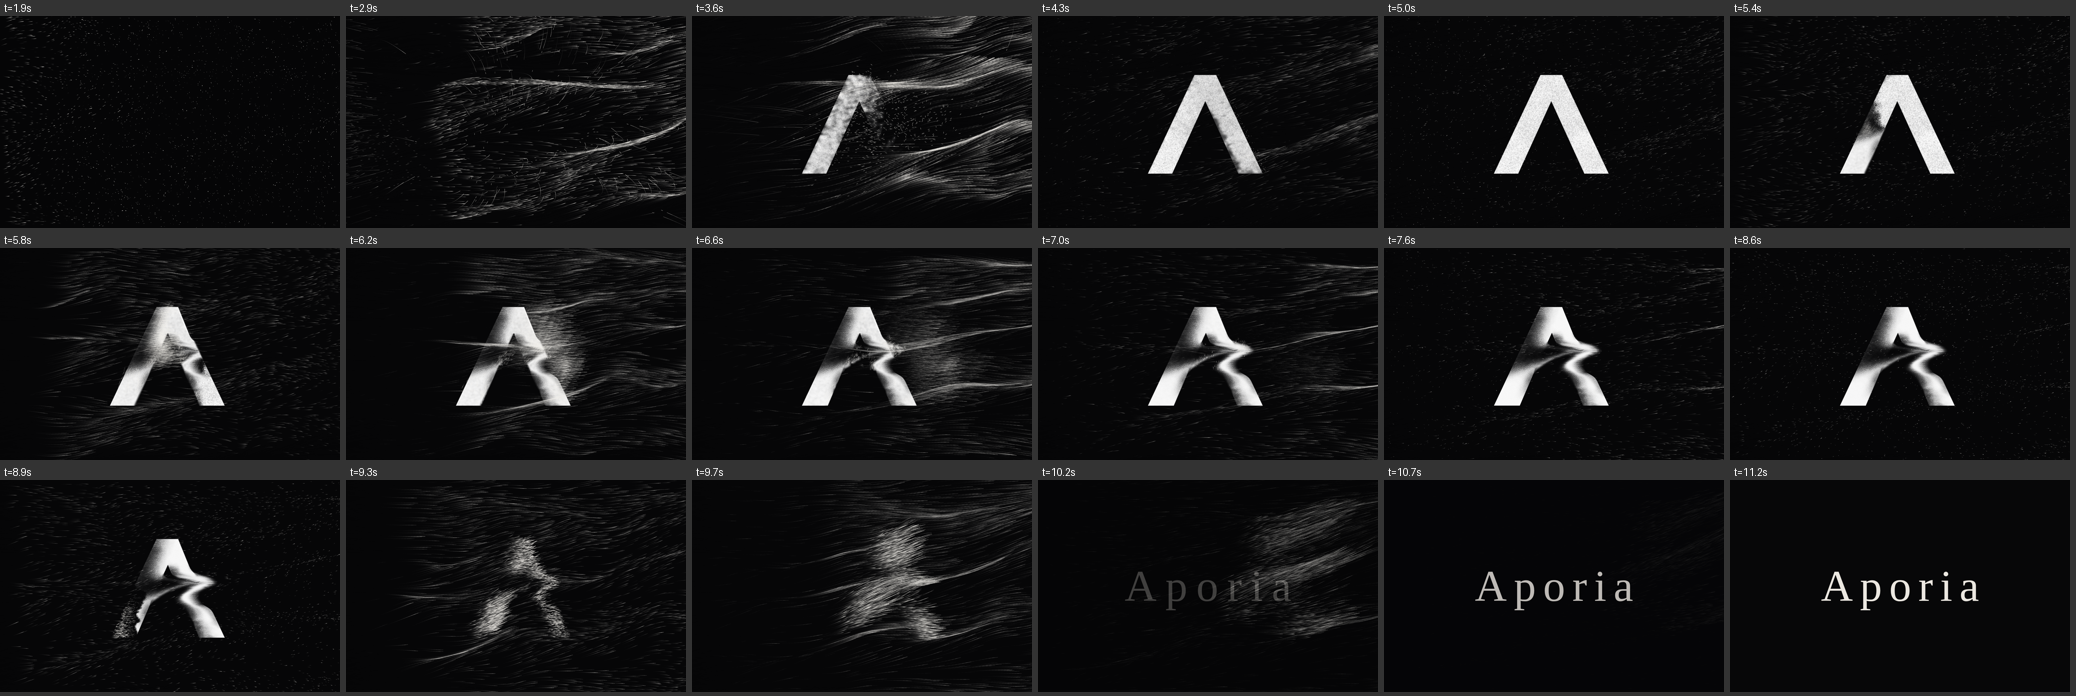
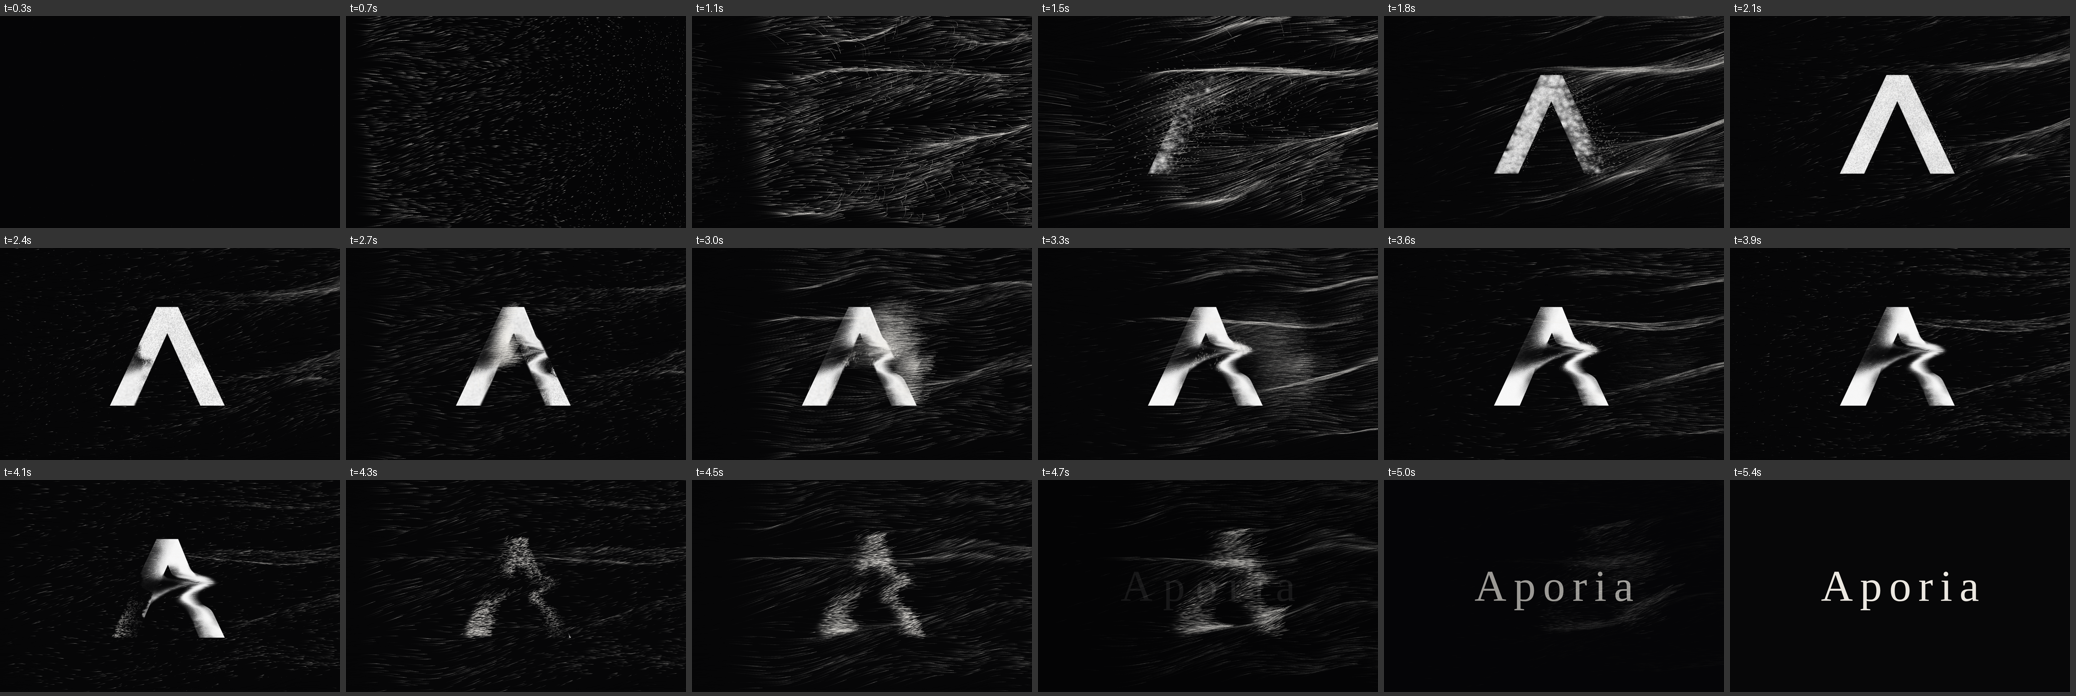
Aporia intro: accorciata a circa 5 secondi
- stessa storia (polvere → A pulita → il vento scava il fiume → logo →
  uscita → "Aporia") con fasi più rapide e ravvicinate: 5,3 s invece di 11
- qualità adattiva più reattiva (ogni 10 fotogrammi): fluida anche sui
  dispositivi lenti (circa 6 s con processore rallentato 6 volte)
- cronologia chat: messaggio 23

Claude-Session: https://claude.ai/code/session_012fWqezHyFdBUkYwQQa2JxT

diff --git a/index.html b/index.html
@@ -63,19 +63,19 @@
 
   // ---- tempi (secondi) --------------------------------------------------
   const T = {
-    dustIn: [0.7, 2.2],     // la polvere compare dal nero
-    form: [3.1, 4.5],       // la polvere costruisce la A pulita
-    carve: [5.0, 7.2],      // una folata scava il fiume e trascina la polvere nella bandiera
-    exit: [8.3, 9.8],       // il vento porta via il logo, da sinistra a destra
-    home: [9.6, 10.9],
-    end: 11.1,
+    dustIn: [0.15, 0.9],    // la polvere compare dal nero
+    form: [1.3, 2.0],       // la polvere costruisce la A pulita
+    carve: [2.2, 3.4],      // una folata scava il fiume e trascina la polvere nella bandiera
+    exit: [3.75, 4.6],      // il vento porta via il logo, da sinistra a destra
+    home: [4.45, 5.2],
+    end: 5.3,
   };
   // folate di vento: inizio, durata, forza, angolo (gradi), tempo per attraversare lo schermo
   const GUSTS = [
-    { t0: 1.5, dur: 1.2, str: 0.9, ang: -6, cross: 0.55 },
-    { t0: 2.5, dur: 1.5, str: 1.5, ang: -12, cross: 0.45 },
-    { t0: 4.75, dur: 2.3, str: 1.2, ang: -3, cross: 0.55 },
-    { t0: 8.1, dur: 2.6, str: 1.15, ang: -8, cross: 0.5 },
+    { t0: 0.2, dur: 0.9, str: 1.0, ang: -6, cross: 0.35 },
+    { t0: 0.75, dur: 1.2, str: 1.6, ang: -12, cross: 0.35 },
+    { t0: 2.05, dur: 1.5, str: 1.3, ang: -3, cross: 0.4 },
+    { t0: 3.6, dur: 1.6, str: 1.2, ang: -8, cross: 0.35 },
   ].map(g => ({ ...g, c: Math.cos(g.ang*Math.PI/180), s: Math.sin(g.ang*Math.PI/180) }));
 
   const clamp = (v, a, b) => Math.min(b, Math.max(a, v));
@@ -117,7 +117,7 @@
       const su = q[4*i]/2, sv = q[4*i + 1]/2, tu = q[4*i + 2]/2, tv = q[4*i + 3]/2;
       const away = tu < 0, r1 = hash(i, 11), r2 = hash(i, 23), r3 = hash(i, 37);
       out.push({ su, sv, away, keep: r3, tu: away ? su + 260 + r1*520 : tu, tv: away ? sv - 70 + r2*90 : tv,
-                 dur: (away ? 1.1 : 0.9) + r3*0.9, a: 0.3 + r1*0.55, ph: r2*50, t0: 0, x: 0, y: 0 });
+                 dur: (away ? 0.8 : 0.6) + r3*0.55, a: 0.3 + r1*0.55, ph: r2*50, t0: 0, x: 0, y: 0 });
     }
     return out;
   })();
@@ -207,7 +207,7 @@
     ambient = [];
     for (let i = 0; i < count; i++) ambient.push({
       x: Math.random()*W, y: Math.random()*H, vx: 0, vy: 0, born: 0,
-      big: Math.random() > 0.85, a: 0.18 + Math.random()*0.55, delay: Math.random()*1.2,
+      big: Math.random() > 0.85, a: 0.18 + Math.random()*0.55, delay: Math.random()*0.4,
     });
   }
 
@@ -283,14 +283,14 @@
         p.x = Math.random()*W; p.y = Math.random()*H; p.born = t;
         flow(p.x, p.y, t); p.vx = f[0]; p.vy = f[1];
       }
-      const a = p.a*dustA*smooth(T.dustIn[0] + p.delay, T.dustIn[0] + p.delay + 0.8, t)
+      const a = p.a*dustA*smooth(T.dustIn[0] + p.delay, T.dustIn[0] + p.delay + 0.4, t)
               * (p.born ? smooth(p.born, p.born + 0.6, t) : 1);
       const sp = Math.hypot(p.vx, p.vy) || 1, len = Math.min(4 + 22*VS, 0.4 + sp*0.028);
       queue(p.x - p.vx/sp*len, p.y - p.vy/sp*len, p.x, p.y, a, p.big);
     }
 
     // la seconda folata raccoglie la polvere che forma il logo
-    if (!formed && t >= GUSTS[1].t0 + 0.15 && solidTargets.length) {
+    if (!formed && t >= GUSTS[1].t0 + 0.1 && solidTargets.length) {
       formed = true;
       const n = Math.min(Math.round(1400*budget), solidTargets.length);
       // metà dei granelli viene dall'aria: si scelgono a caso e si tolgono in un solo passaggio
@@ -303,7 +303,7 @@
       for (let i = 0; i < n; i++) {
         const tg = solidTargets[(i*solidTargets.length/n)|0];
         const q = i % 2 === 0 ? picked[i >> 1] : null;
-        const jit = (Math.random() - 0.5)*0.22;
+        const jit = (Math.random() - 0.5)*0.15;
         formers.push(q ? { tg, jit, done: 0, x: q.x, y: q.y, vx: q.vx, vy: q.vy, a: 0.3 + tg.l*0.6, born: 0 }
                        : { tg, jit, done: 0, x: -20 - Math.random()*W*0.3, y: box.y + tg.v*box.s + (Math.random() - 0.5)*H*0.6, vx: 300*VS, vy: 0,
                            a: 0.3 + tg.l*0.6, born: t });
@@ -313,9 +313,9 @@
     const rad = 26/Math.sqrt(Math.max(0.3, formers.length/1400));   // meno granelli → sbuffi più larghi
     for (let i = 0; i < formers.length; i++) {
       const p = formers[i];
-      if (p.done && t - p.done > 0.5) continue;
-      const s0 = T.form[0] - 0.75 + ((p.tg.u - U0)/UW)*0.95 + p.jit;
-      const pull = smooth(s0, s0 + 0.75, t);
+      if (p.done && t - p.done > 0.3) continue;
+      const s0 = T.form[0] - 0.55 + ((p.tg.u - U0)/UW)*0.6 + p.jit;
+      const pull = smooth(s0, s0 + 0.5, t);
       const tx = box.x + p.tg.u*box.s, ty = box.y + p.tg.v*box.s;
       flow(p.x, p.y, t);
       const k = 1 - Math.exp(-dt*3);
@@ -326,7 +326,7 @@
       // arrivando lascia polvere: prima una traccia leggera lungo il percorso, poi lo sbuffo pieno
       if (!p.done && pull > 0.2 && d < 90) deposit((p.x - box.x)/box.s, (p.y - box.y)/box.s, 0.05*pull, rad*0.7);
       if (!p.done && pull > 0.55 && d < 4) { p.done = t; deposit(p.tg.u, p.tg.v, 0.85, rad); }
-      const fade = p.done ? 1 - (t - p.done)/0.5 : 1;
+      const fade = p.done ? 1 - (t - p.done)/0.3 : 1;
       const af = p.a*fade*(p.born ? smooth(p.born, p.born + 0.6, t) : 1);
       if (pull < 0.35) queue(ox, oy, p.x, p.y, af, false);    // portato dal vento: scia nell'aria
       else {                                                 // in arrivo: granello luminoso che scivola al suo posto
@@ -340,7 +340,7 @@
     lctx.clearRect(0, 0, W, H);
     const fp = clamp((t - T.form[0])/(T.form[1] - T.form[0]), 0, 1);
     const xp = clamp((t - T.exit[0])/(T.exit[1] - T.exit[0]), 0, 1);
-    const fill = smooth(T.form[1] - 0.35, T.form[1] + 0.25, t);
+    const fill = smooth(T.form[1] - 0.25, T.form[1] + 0.2, t);
     const mkAt = (c, cv, F) => c.drawImage(mk2, (F - U0)*cv.width/UW - cv.width, 0, 2*cv.width, cv.height);
     if (t < T.carve[0]) {
       // 1) la A pulita si vede solo dove la polvere si è posata; alla fine la maschera si chiude
@@ -358,9 +358,9 @@
     } else if (xp <= 0 && t < T.carve[1]) {
       // 2) la folata attraversa la lettera: dove passa, la polvere del fiume si solleva (S → Bstay)
       //    e quella trascinata compare dove si deposita (Bmove attraverso la maschera degli arrivi)
-      const cf = clamp((t - T.carve[0])/1.15, 0, 1), F = U0 - 60 + (UW + 120)*cf;
+      const cf = clamp((t - T.carve[0])/0.7, 0, 1), F = U0 - 60 + (UW + 120)*cf;
       carveFront = F;
-      const endFill = smooth(T.carve[1] - 0.45, T.carve[1], t);
+      const endFill = smooth(T.carve[1] - 0.3, T.carve[1], t);
       if (endFill > 0) { acc2.globalAlpha = endFill*0.3; acc2.fillStyle = '#fff'; acc2.fillRect(0, 0, ac2.width, ac2.height); acc2.globalAlpha = 1; }
       lcc.setTransform(1, 0, 0, 1, 0, 0); lcc.clearRect(0, 0, lc.width, lc.height);
       lcc.drawImage(IMG.S, 0, 0, lc.width, lc.height);
@@ -399,13 +399,13 @@
         blown.push({ x: box.x + tg.u*box.s, y: box.y + tg.v*box.s,
                      vx: (30 + Math.random()*140)*VS, vy: (-70 + Math.random()*110)*VS,
                      w: 0.35 + Math.random()*Math.random()*2.6,     // peso: i granelli leggeri volano via prima
-                     life: 1.4 + Math.random()*1.6, age: 0, a: 0.18 + tg.l*0.5, big: tg.l > 0.85 && Math.random() < 0.25 });
+                     life: 0.8 + Math.random()*0.9, age: 0, a: 0.18 + tg.l*0.5, big: tg.l > 0.85 && Math.random() < 0.25 });
       }
     }
 
     // granelli sollevati dalla folata: partono quando il fronte li raggiunge, volano col vento,
     // una parte si deposita nella bandiera e sui bordi del fiume, il resto viene portato via
-    if (t >= T.carve[0] && t < T.carve[1] + 1.6) {
+    if (t >= T.carve[0] && t < T.carve[1] + 1.0) {
       const subs = budget > 0.7 ? 3 : budget > 0.45 ? 2 : 1;
       const keepAway = 0.75*budget;                     // su dispositivi lenti meno polvere portata via
       for (let i = 0; i < MV.length; i++) {
@@ -475,14 +475,14 @@
     // qualità adattiva: si misura il tempo reale dei fotogrammi; se il dispositivo fatica si usa
     // meno polvere (e, all'inizio, una risoluzione più bassa) invece di andare a scatti
     slow.push(real);
-    if (slow.length >= 24) {
-      const med = slow.slice().sort((a, b) => a - b)[12];
-      if (med > 0.022 && budget > 0.25) {
-        const k = med > 0.04 ? 0.6 : 0.8;
+    if (slow.length >= 10) {                          // l'intro è breve: si reagisce in fretta
+      const med = slow.slice().sort((a, b) => a - b)[5];
+      if (med > 0.022 && budget > 0.2) {
+        const k = med > 0.07 ? 0.45 : med > 0.04 ? 0.6 : 0.8;
         budget *= k;
         ambient.length = Math.round(ambient.length*k);
         if (blown.length > 400) blown.length = Math.round(blown.length*k);
-        if (t < T.dustIn[1] && DPR > 1) { DPR_MAX = med > 0.04 ? 1 : 1.5; resize(); }
+        if (t < T.form[0] && DPR > 1) { DPR_MAX = med > 0.04 ? 1 : 1.5; resize(); }
       }
       slow.length = 0;
     }
@@ -517,8 +517,8 @@
       drawLogo(lctx, 1, 0, x, y, UW*box.s, VH*box.s);
       requestAnimationFrame(() => { lv.style.opacity = '1'; });
       intro.style.transition = 'opacity .7s ease'; title.style.transition = 'opacity .7s ease';
-      setTimeout(() => { intro.style.opacity = '0'; setTitle(1); }, 1900);
-      setTimeout(() => { intro.classList.add('gone'); running = false; lv.style.opacity = ''; }, 2700);
+      setTimeout(() => { intro.style.opacity = '0'; setTitle(1); }, 1200);
+      setTimeout(() => { intro.classList.add('gone'); running = false; lv.style.opacity = ''; }, 1800);
       return;
     }
     raf = requestAnimationFrame(frame);

diff --git a/src/template.html b/src/template.html
@@ -56,19 +56,19 @@
 
   // ---- tempi (secondi) --------------------------------------------------
   const T = {
-    dustIn: [0.7, 2.2],     // la polvere compare dal nero
-    form: [3.1, 4.5],       // la polvere costruisce la A pulita
-    carve: [5.0, 7.2],      // una folata scava il fiume e trascina la polvere nella bandiera
-    exit: [8.3, 9.8],       // il vento porta via il logo, da sinistra a destra
-    home: [9.6, 10.9],
-    end: 11.1,
+    dustIn: [0.15, 0.9],    // la polvere compare dal nero
+    form: [1.3, 2.0],       // la polvere costruisce la A pulita
+    carve: [2.2, 3.4],      // una folata scava il fiume e trascina la polvere nella bandiera
+    exit: [3.75, 4.6],      // il vento porta via il logo, da sinistra a destra
+    home: [4.45, 5.2],
+    end: 5.3,
   };
   // folate di vento: inizio, durata, forza, angolo (gradi), tempo per attraversare lo schermo
   const GUSTS = [
-    { t0: 1.5, dur: 1.2, str: 0.9, ang: -6, cross: 0.55 },
-    { t0: 2.5, dur: 1.5, str: 1.5, ang: -12, cross: 0.45 },
-    { t0: 4.75, dur: 2.3, str: 1.2, ang: -3, cross: 0.55 },
-    { t0: 8.1, dur: 2.6, str: 1.15, ang: -8, cross: 0.5 },
+    { t0: 0.2, dur: 0.9, str: 1.0, ang: -6, cross: 0.35 },
+    { t0: 0.75, dur: 1.2, str: 1.6, ang: -12, cross: 0.35 },
+    { t0: 2.05, dur: 1.5, str: 1.3, ang: -3, cross: 0.4 },
+    { t0: 3.6, dur: 1.6, str: 1.2, ang: -8, cross: 0.35 },
   ].map(g => ({ ...g, c: Math.cos(g.ang*Math.PI/180), s: Math.sin(g.ang*Math.PI/180) }));
 
   const clamp = (v, a, b) => Math.min(b, Math.max(a, v));
@@ -110,7 +110,7 @@
       const su = q[4*i]/2, sv = q[4*i + 1]/2, tu = q[4*i + 2]/2, tv = q[4*i + 3]/2;
       const away = tu < 0, r1 = hash(i, 11), r2 = hash(i, 23), r3 = hash(i, 37);
       out.push({ su, sv, away, keep: r3, tu: away ? su + 260 + r1*520 : tu, tv: away ? sv - 70 + r2*90 : tv,
-                 dur: (away ? 1.1 : 0.9) + r3*0.9, a: 0.3 + r1*0.55, ph: r2*50, t0: 0, x: 0, y: 0 });
+                 dur: (away ? 0.8 : 0.6) + r3*0.55, a: 0.3 + r1*0.55, ph: r2*50, t0: 0, x: 0, y: 0 });
     }
     return out;
   })();
@@ -200,7 +200,7 @@
     ambient = [];
     for (let i = 0; i < count; i++) ambient.push({
       x: Math.random()*W, y: Math.random()*H, vx: 0, vy: 0, born: 0,
-      big: Math.random() > 0.85, a: 0.18 + Math.random()*0.55, delay: Math.random()*1.2,
+      big: Math.random() > 0.85, a: 0.18 + Math.random()*0.55, delay: Math.random()*0.4,
     });
   }
 
@@ -276,14 +276,14 @@
         p.x = Math.random()*W; p.y = Math.random()*H; p.born = t;
         flow(p.x, p.y, t); p.vx = f[0]; p.vy = f[1];
       }
-      const a = p.a*dustA*smooth(T.dustIn[0] + p.delay, T.dustIn[0] + p.delay + 0.8, t)
+      const a = p.a*dustA*smooth(T.dustIn[0] + p.delay, T.dustIn[0] + p.delay + 0.4, t)
               * (p.born ? smooth(p.born, p.born + 0.6, t) : 1);
       const sp = Math.hypot(p.vx, p.vy) || 1, len = Math.min(4 + 22*VS, 0.4 + sp*0.028);
       queue(p.x - p.vx/sp*len, p.y - p.vy/sp*len, p.x, p.y, a, p.big);
     }
 
     // la seconda folata raccoglie la polvere che forma il logo
-    if (!formed && t >= GUSTS[1].t0 + 0.15 && solidTargets.length) {
+    if (!formed && t >= GUSTS[1].t0 + 0.1 && solidTargets.length) {
       formed = true;
       const n = Math.min(Math.round(1400*budget), solidTargets.length);
       // metà dei granelli viene dall'aria: si scelgono a caso e si tolgono in un solo passaggio
@@ -296,7 +296,7 @@
       for (let i = 0; i < n; i++) {
         const tg = solidTargets[(i*solidTargets.length/n)|0];
         const q = i % 2 === 0 ? picked[i >> 1] : null;
-        const jit = (Math.random() - 0.5)*0.22;
+        const jit = (Math.random() - 0.5)*0.15;
         formers.push(q ? { tg, jit, done: 0, x: q.x, y: q.y, vx: q.vx, vy: q.vy, a: 0.3 + tg.l*0.6, born: 0 }
                        : { tg, jit, done: 0, x: -20 - Math.random()*W*0.3, y: box.y + tg.v*box.s + (Math.random() - 0.5)*H*0.6, vx: 300*VS, vy: 0,
                            a: 0.3 + tg.l*0.6, born: t });
@@ -306,9 +306,9 @@
     const rad = 26/Math.sqrt(Math.max(0.3, formers.length/1400));   // meno granelli → sbuffi più larghi
     for (let i = 0; i < formers.length; i++) {
       const p = formers[i];
-      if (p.done && t - p.done > 0.5) continue;
-      const s0 = T.form[0] - 0.75 + ((p.tg.u - U0)/UW)*0.95 + p.jit;
-      const pull = smooth(s0, s0 + 0.75, t);
+      if (p.done && t - p.done > 0.3) continue;
+      const s0 = T.form[0] - 0.55 + ((p.tg.u - U0)/UW)*0.6 + p.jit;
+      const pull = smooth(s0, s0 + 0.5, t);
       const tx = box.x + p.tg.u*box.s, ty = box.y + p.tg.v*box.s;
       flow(p.x, p.y, t);
       const k = 1 - Math.exp(-dt*3);
@@ -319,7 +319,7 @@
       // arrivando lascia polvere: prima una traccia leggera lungo il percorso, poi lo sbuffo pieno
       if (!p.done && pull > 0.2 && d < 90) deposit((p.x - box.x)/box.s, (p.y - box.y)/box.s, 0.05*pull, rad*0.7);
       if (!p.done && pull > 0.55 && d < 4) { p.done = t; deposit(p.tg.u, p.tg.v, 0.85, rad); }
-      const fade = p.done ? 1 - (t - p.done)/0.5 : 1;
+      const fade = p.done ? 1 - (t - p.done)/0.3 : 1;
       const af = p.a*fade*(p.born ? smooth(p.born, p.born + 0.6, t) : 1);
       if (pull < 0.35) queue(ox, oy, p.x, p.y, af, false);    // portato dal vento: scia nell'aria
       else {                                                 // in arrivo: granello luminoso che scivola al suo posto
@@ -333,7 +333,7 @@
     lctx.clearRect(0, 0, W, H);
     const fp = clamp((t - T.form[0])/(T.form[1] - T.form[0]), 0, 1);
     const xp = clamp((t - T.exit[0])/(T.exit[1] - T.exit[0]), 0, 1);
-    const fill = smooth(T.form[1] - 0.35, T.form[1] + 0.25, t);
+    const fill = smooth(T.form[1] - 0.25, T.form[1] + 0.2, t);
     const mkAt = (c, cv, F) => c.drawImage(mk2, (F - U0)*cv.width/UW - cv.width, 0, 2*cv.width, cv.height);
     if (t < T.carve[0]) {
       // 1) la A pulita si vede solo dove la polvere si è posata; alla fine la maschera si chiude
@@ -351,9 +351,9 @@
     } else if (xp <= 0 && t < T.carve[1]) {
       // 2) la folata attraversa la lettera: dove passa, la polvere del fiume si solleva (S → Bstay)
       //    e quella trascinata compare dove si deposita (Bmove attraverso la maschera degli arrivi)
-      const cf = clamp((t - T.carve[0])/1.15, 0, 1), F = U0 - 60 + (UW + 120)*cf;
+      const cf = clamp((t - T.carve[0])/0.7, 0, 1), F = U0 - 60 + (UW + 120)*cf;
       carveFront = F;
-      const endFill = smooth(T.carve[1] - 0.45, T.carve[1], t);
+      const endFill = smooth(T.carve[1] - 0.3, T.carve[1], t);
       if (endFill > 0) { acc2.globalAlpha = endFill*0.3; acc2.fillStyle = '#fff'; acc2.fillRect(0, 0, ac2.width, ac2.height); acc2.globalAlpha = 1; }
       lcc.setTransform(1, 0, 0, 1, 0, 0); lcc.clearRect(0, 0, lc.width, lc.height);
       lcc.drawImage(IMG.S, 0, 0, lc.width, lc.height);
@@ -392,13 +392,13 @@
         blown.push({ x: box.x + tg.u*box.s, y: box.y + tg.v*box.s,
                      vx: (30 + Math.random()*140)*VS, vy: (-70 + Math.random()*110)*VS,
                      w: 0.35 + Math.random()*Math.random()*2.6,     // peso: i granelli leggeri volano via prima
-                     life: 1.4 + Math.random()*1.6, age: 0, a: 0.18 + tg.l*0.5, big: tg.l > 0.85 && Math.random() < 0.25 });
+                     life: 0.8 + Math.random()*0.9, age: 0, a: 0.18 + tg.l*0.5, big: tg.l > 0.85 && Math.random() < 0.25 });
       }
     }
 
     // granelli sollevati dalla folata: partono quando il fronte li raggiunge, volano col vento,
     // una parte si deposita nella bandiera e sui bordi del fiume, il resto viene portato via
-    if (t >= T.carve[0] && t < T.carve[1] + 1.6) {
+    if (t >= T.carve[0] && t < T.carve[1] + 1.0) {
       const subs = budget > 0.7 ? 3 : budget > 0.45 ? 2 : 1;
       const keepAway = 0.75*budget;                     // su dispositivi lenti meno polvere portata via
       for (let i = 0; i < MV.length; i++) {
@@ -468,14 +468,14 @@
     // qualità adattiva: si misura il tempo reale dei fotogrammi; se il dispositivo fatica si usa
     // meno polvere (e, all'inizio, una risoluzione più bassa) invece di andare a scatti
     slow.push(real);
-    if (slow.length >= 24) {
-      const med = slow.slice().sort((a, b) => a - b)[12];
-      if (med > 0.022 && budget > 0.25) {
-        const k = med > 0.04 ? 0.6 : 0.8;
+    if (slow.length >= 10) {                          // l'intro è breve: si reagisce in fretta
+      const med = slow.slice().sort((a, b) => a - b)[5];
+      if (med > 0.022 && budget > 0.2) {
+        const k = med > 0.07 ? 0.45 : med > 0.04 ? 0.6 : 0.8;
         budget *= k;
         ambient.length = Math.round(ambient.length*k);
         if (blown.length > 400) blown.length = Math.round(blown.length*k);
-        if (t < T.dustIn[1] && DPR > 1) { DPR_MAX = med > 0.04 ? 1 : 1.5; resize(); }
+        if (t < T.form[0] && DPR > 1) { DPR_MAX = med > 0.04 ? 1 : 1.5; resize(); }
       }
       slow.length = 0;
     }
@@ -510,8 +510,8 @@
       drawLogo(lctx, 1, 0, x, y, UW*box.s, VH*box.s);
       requestAnimationFrame(() => { lv.style.opacity = '1'; });
       intro.style.transition = 'opacity .7s ease'; title.style.transition = 'opacity .7s ease';
-      setTimeout(() => { intro.style.opacity = '0'; setTitle(1); }, 1900);
-      setTimeout(() => { intro.classList.add('gone'); running = false; lv.style.opacity = ''; }, 2700);
+      setTimeout(() => { intro.style.opacity = '0'; setTitle(1); }, 1200);
+      setTimeout(() => { intro.classList.add('gone'); running = false; lv.style.opacity = ''; }, 1800);
       return;
     }
     raf = requestAnimationFrame(frame);

diff --git a/README.md b/README.md
@@ -7,22 +7,20 @@ mostra solo la scritta **Aporia**.
 Apri `index.html` nel browser: è un file unico (circa 560 KB), senza dipendenze (il logo è incorporato;
 l'unica risorsa esterna è il carattere Italiana da Google Fonts, con ripiego su Didot/Bodoni/serif).
 
-## Sequenza (circa 11 s)
+## Sequenza (circa 5 s)
 
 Il logo dust è una A di polvere in cui il vento ha scavato il fiume e trascinato la polvere a
-destra (la "bandiera"). L'intro racconta proprio questo:
+destra (la "bandiera"). L'intro racconta proprio questo, in poco tempo:
 
 | tempo | cosa succede |
 |---|---|
-| 0 – 0,7 s | nero |
-| 0,7 – 2,2 s | la polvere compare dal nero, sospesa e in lento movimento |
-| 1,5 s | prima folata di vento |
-| 2,5 – 4,7 s | seconda folata: la polvere si posa granello per granello e costruisce una **A pulita**, da sinistra a destra |
-| 4,7 – 5,0 s | la A pulita resta un istante |
-| 5,0 – 7,2 s | una folata attraversa la lettera: dove passa, la polvere del fiume e delle ombre si solleva e vola a destra; una parte si deposita nella bandiera e sui bordi del fiume, il resto viene portato via. Il risultato è esattamente il logo |
-| 7,2 – 8,3 s | il logo resta |
-| 8,3 – 9,8 s | ultima folata: il logo si sgretola da sinistra a destra e la polvere vola via |
-| 9,6 – 10,9 s | compare la home: "Aporia" |
+| 0 – 0,15 s | nero |
+| 0,15 – 0,9 s | la polvere compare dal nero; prima folata |
+| 0,75 – 2,0 s | seconda folata: la polvere si posa e costruisce una **A pulita**, da sinistra a destra |
+| 2,2 – 3,4 s | una folata attraversa la lettera: la polvere del fiume e delle ombre si solleva e vola a destra, una parte si deposita nella bandiera, il resto si disperde. Il risultato è esattamente il logo |
+| 3,4 – 3,75 s | il logo resta |
+| 3,75 – 4,6 s | ultima folata: il logo si sgretola da sinistra a destra |
+| 4,45 – 5,2 s | compare la home: "Aporia" |
 
 - Click, tocco o un tasto qualsiasi durante l'intro: si salta subito alla home.
 - Doppio click sulla scritta "Aporia": si rivede l'apertura.
@@ -35,7 +33,7 @@ Anteprime dei fotogrammi in `preview/` (`fiume-scavato-dal-vento.png`: la folata
 
 Tutto in `src/template.html`, in cima allo script:
 
-- `T`: i tempi di ogni fase (secondi).
+- `T`: i tempi di ogni fase (secondi); per allungare o accorciare l'intro basta cambiare questi e `GUSTS`.
 - `GUSTS`: le folate (inizio, durata, forza, angolo, tempo per attraversare lo schermo).
 - `--night`, `--paper` nel CSS: colori del nero e della scritta.
 
